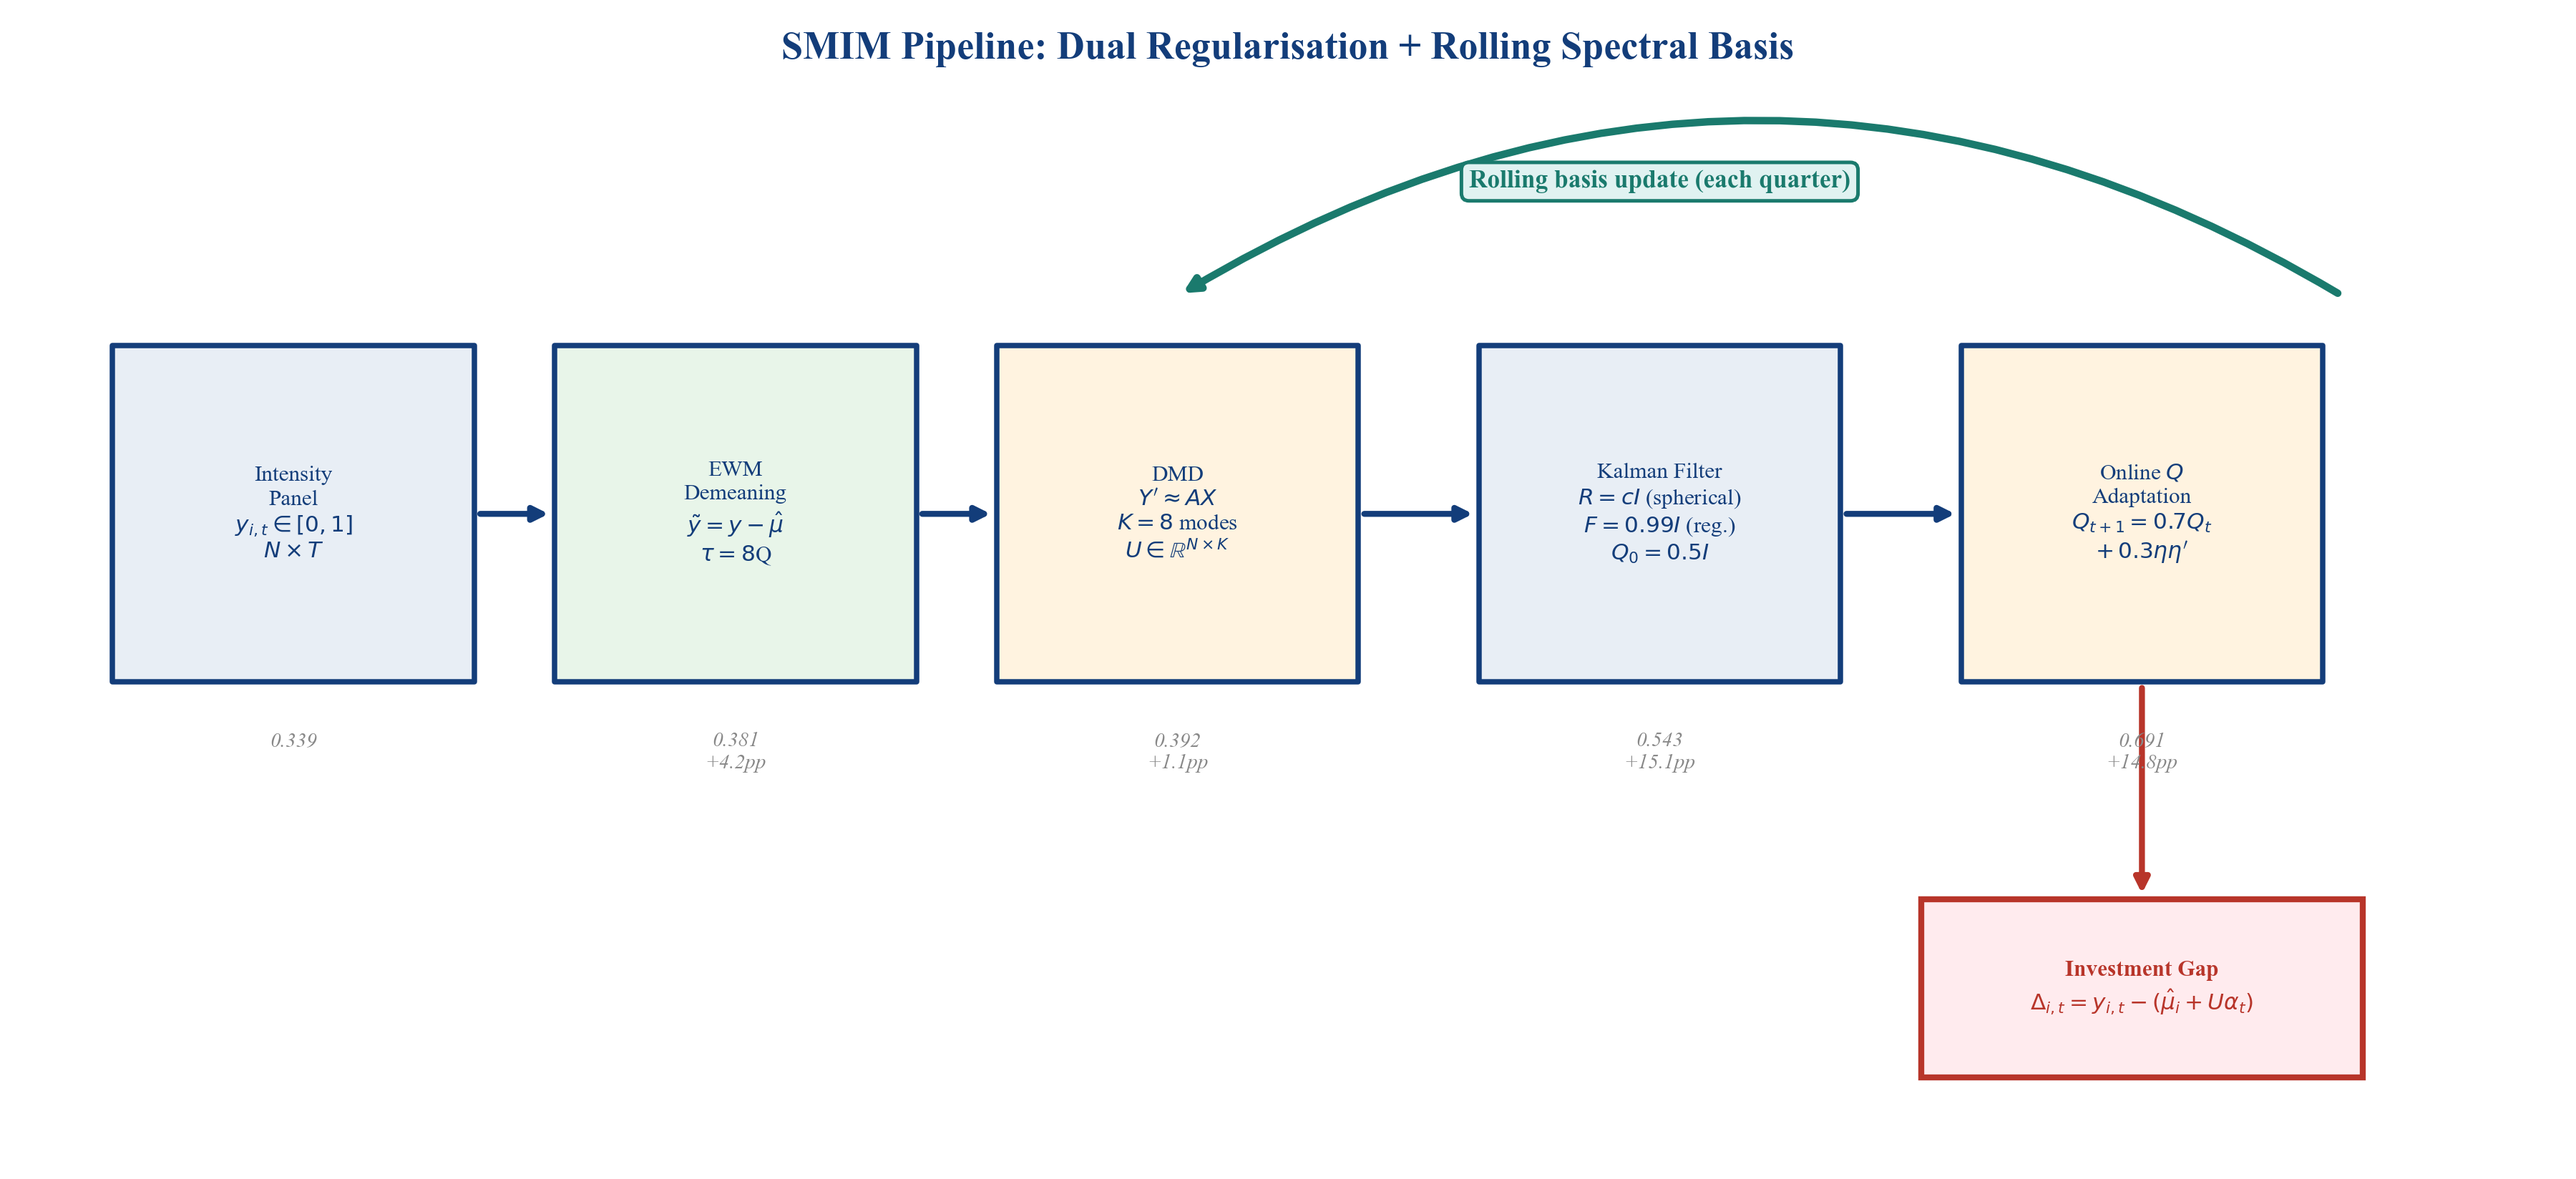
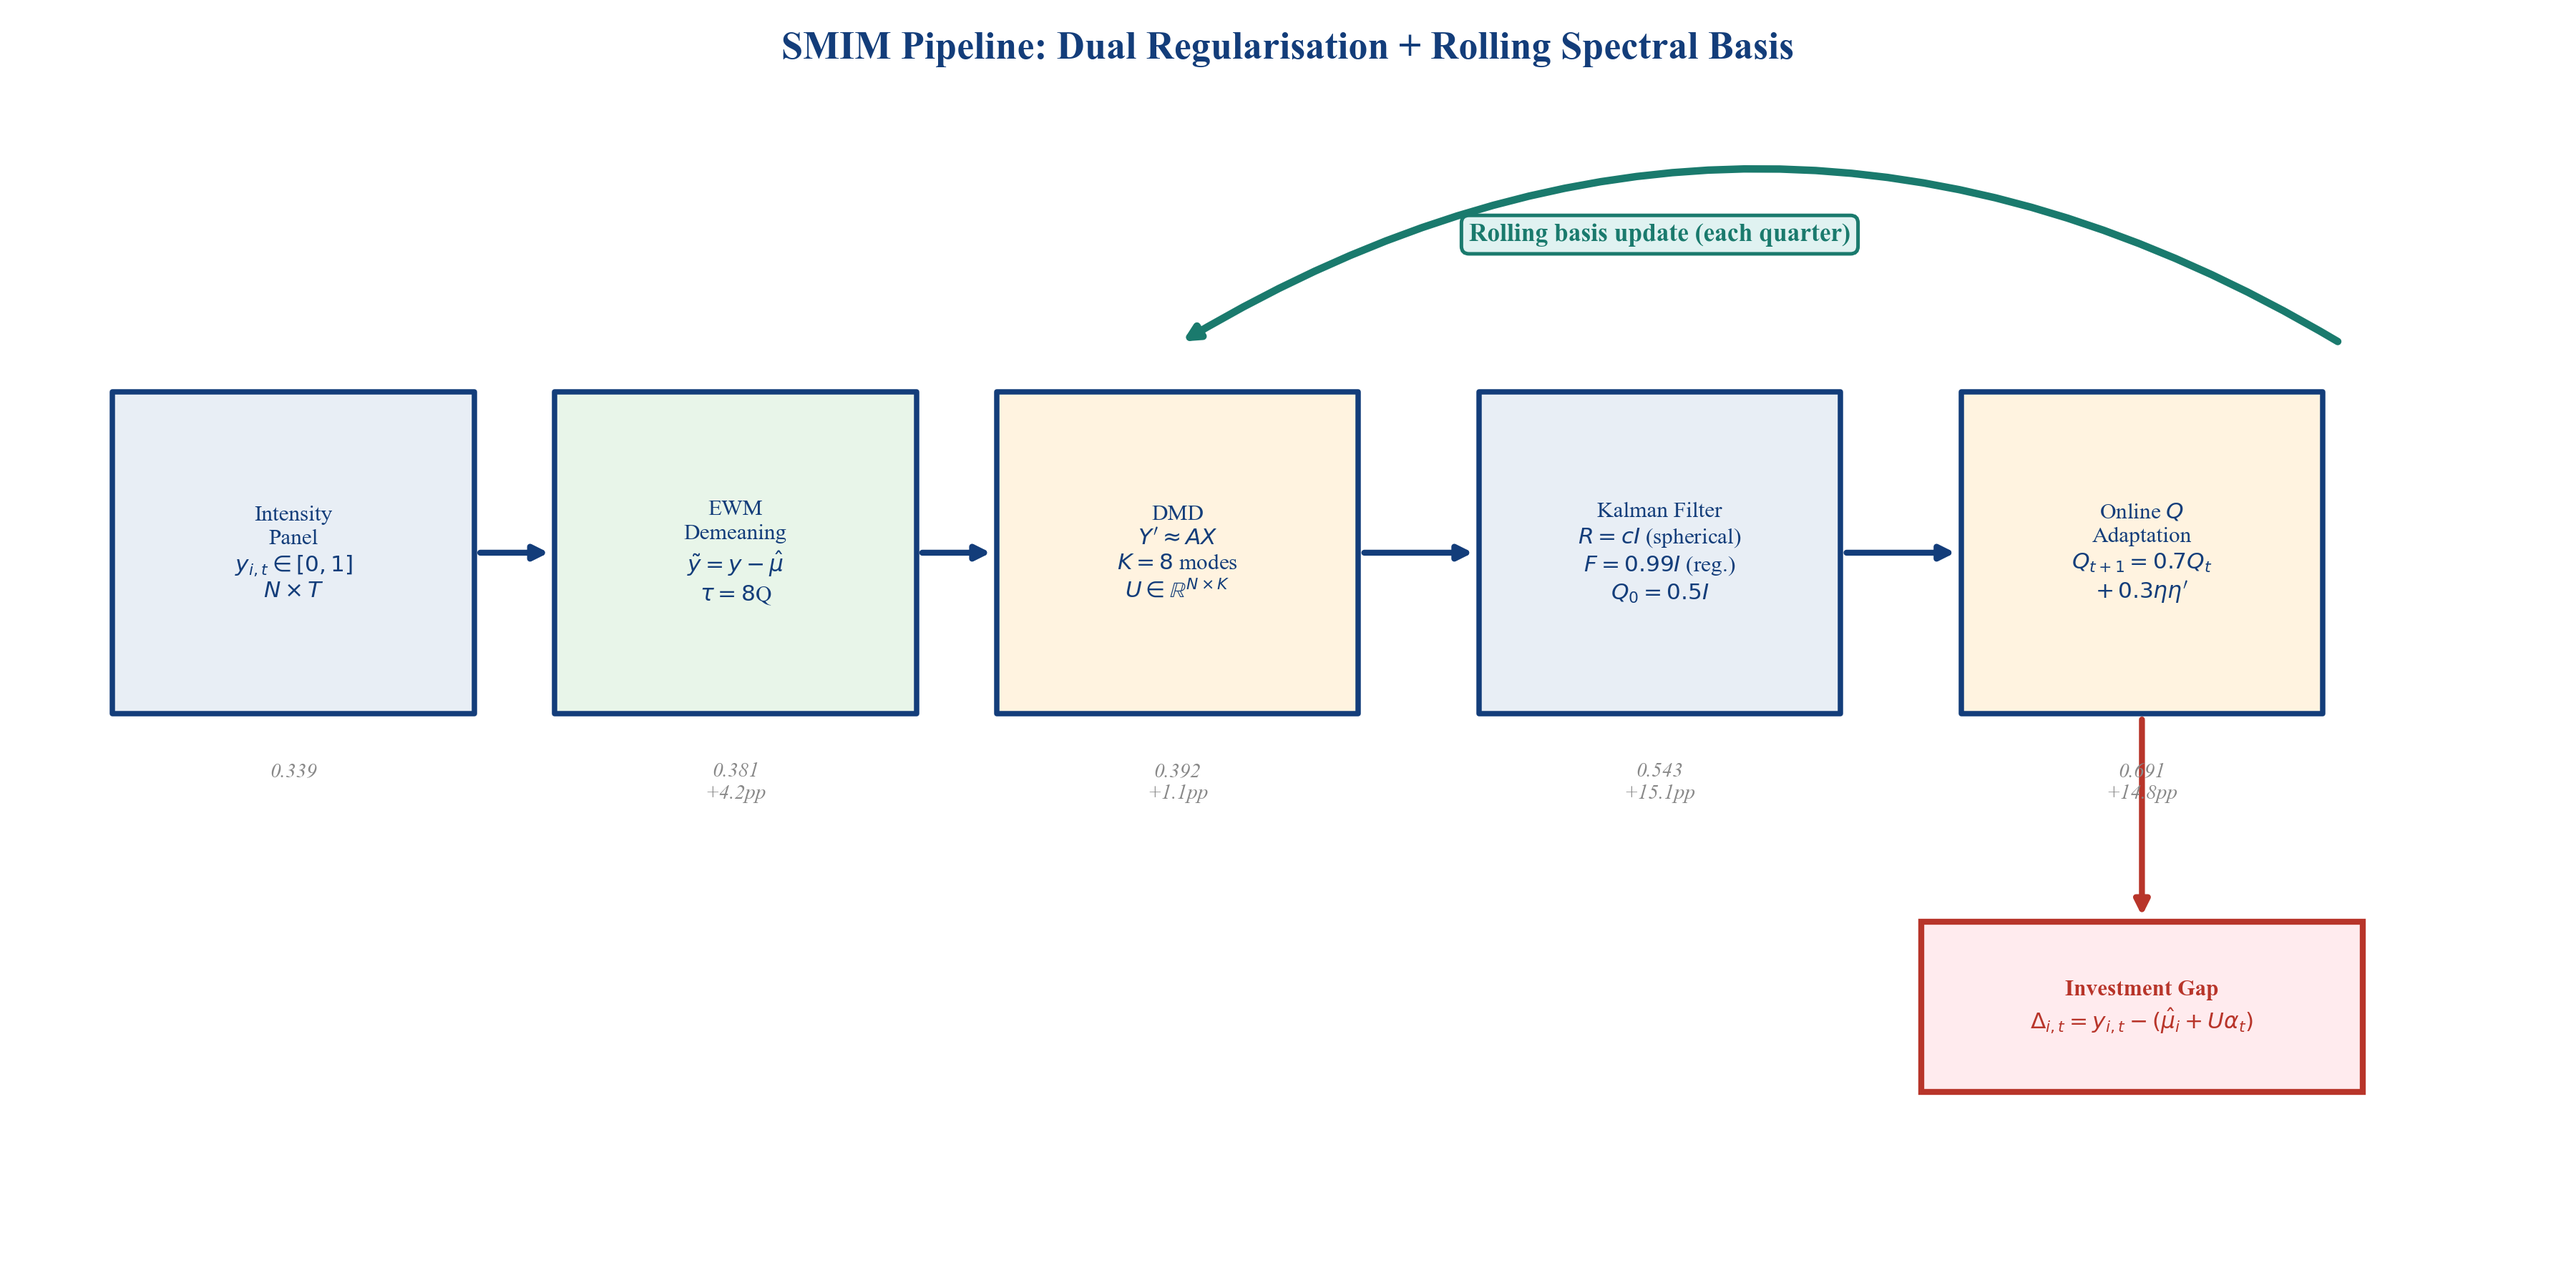
[SMIM] Fix pipeline schematic: expand canvas to prevent gap box clipping
Increased figure height and ylim to give the Investment Gap box at bottom
right sufficient space. No content changes.

diff --git a/scripts/paper_figures_v2.py b/scripts/paper_figures_v2.py
@@ -285,9 +285,9 @@ def fig_variance():
 # ── Figure 1: Pipeline Schematic (updated) ──────────────────────────────────
 
 def fig_schematic():
-    fig, ax = plt.subplots(figsize=(12, 5.5))
+    fig, ax = plt.subplots(figsize=(12, 6.0))
     ax.set_xlim(-0.5, 12)
-    ax.set_ylim(-1.0, 4.2)
+    ax.set_ylim(-1.5, 4.5)
     ax.axis("off")
 
     boxes = [
